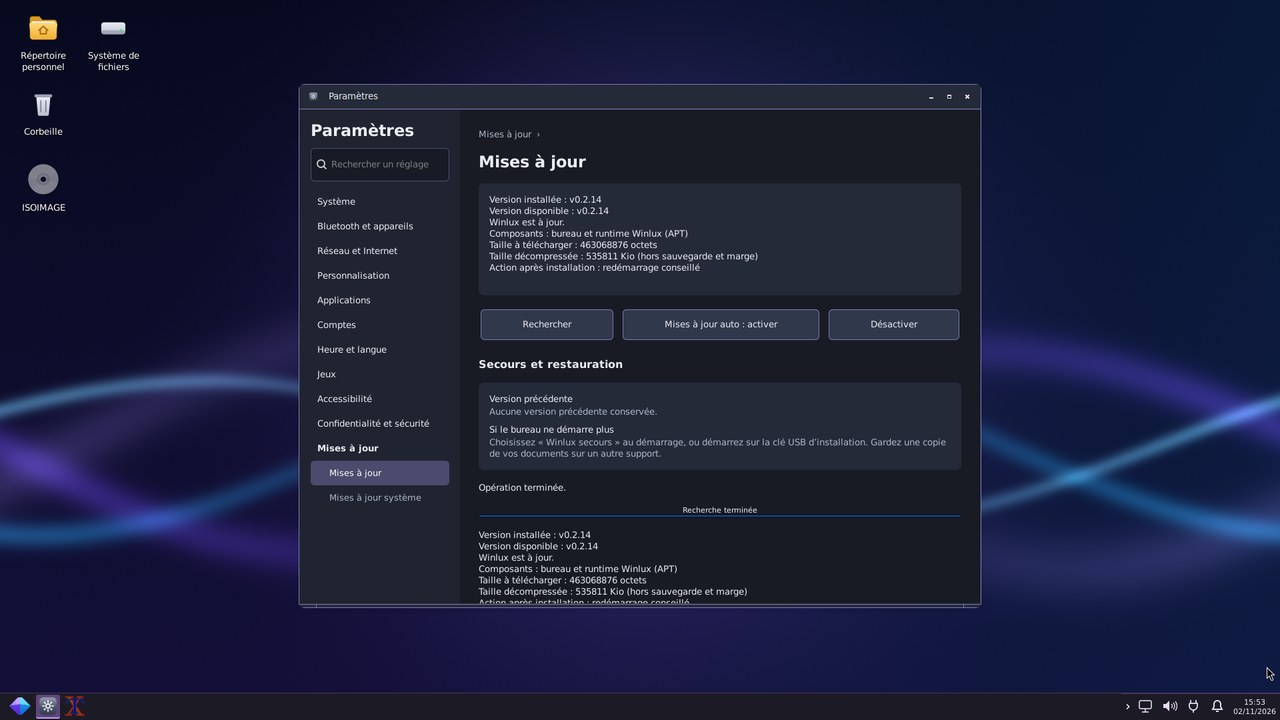
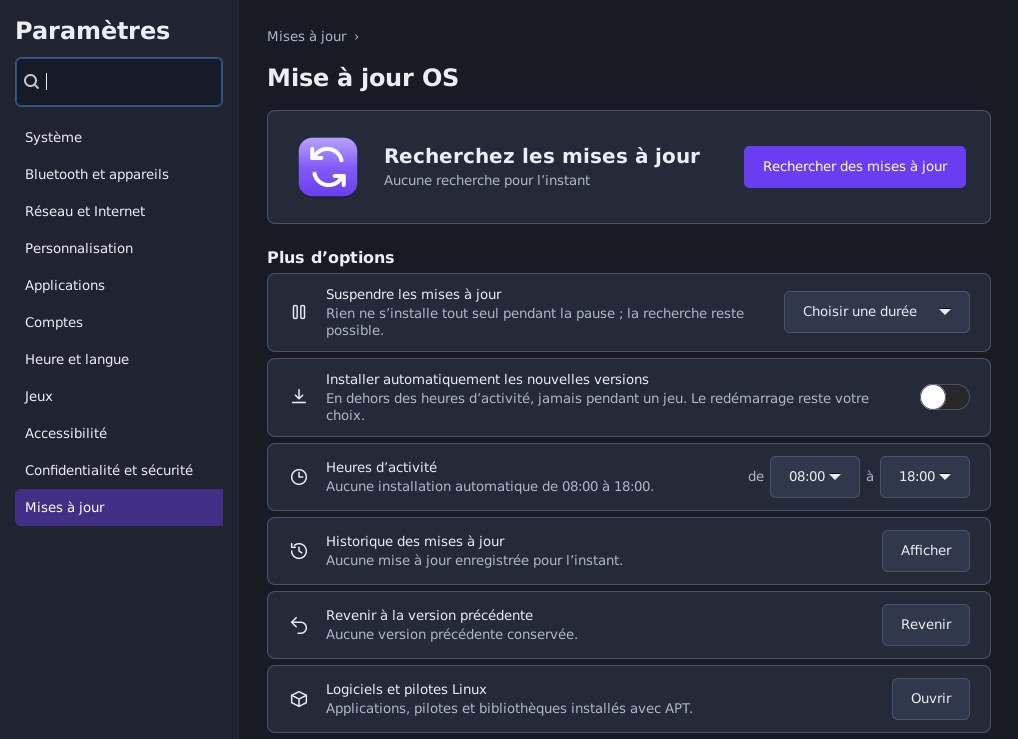
Site : capture « Mise à jour OS » actuelle et guide des mises à jour (#2864)
La capture mises-a-jour.jpg montrait la page de la v0.2.14 (« Version
installée : v0.2.14 ») et le guide citait des boutons qui n'existent plus
(« Rechercher », « Installer », « Mises à jour auto »).

- Nouvelle capture prise par scripts/capture-ui.py (parametres-07, Xvfb
  1920x1080, master affc9fb + cette branche), recadrée sur le contenu de
  la fenêtre : elle n'affiche aucun numéro de version.
- Guide, quatre langues : libellés réels de scripts/winlux-update-page.py
  (« Rechercher des mises à jour », « Télécharger et installer »,
  « Installer automatiquement les nouvelles versions », « Suspendre les
  mises à jour », « Logiciels et pilotes Linux ») et leurs traductions
  de la table _TR ; signature du manifeste contrôlée.

test-site.py --render : 288 rendus corrects.

Refs #2864

Claude-Session: https://claude.ai/code/session_015PANXGa3jYsyjbowwTyt4J

diff --git a/site/content/fr/guide-updates.md b/site/content/fr/guide-updates.md
@@ -6,17 +6,17 @@ description: Les nouvelles versions de Winlux s'installent depuis Paramètres, a
 ## Depuis Paramètres
 
 1. Ouvrez **Paramètres › Mises à jour › Mise à jour OS**.
-2. Cliquez sur **« Rechercher »**. La page indique la version installée et la version disponible.
-3. Si une version plus récente existe, cliquez sur **« Installer »** et suivez la progression.
+2. Cliquez sur **« Rechercher des mises à jour »**. Si une version plus récente existe, la page affiche « Mise à jour disponible », sa taille et ses nouveautés.
+3. Cliquez sur **« Télécharger et installer »** et suivez la progression.
 4. Redémarrez quand cela vous arrange : Winlux ne force jamais le redémarrage.
 
-![La page Mise à jour OS](img:mises-a-jour.jpg "Paramètres › Mises à jour › Mise à jour OS : version installée, version disponible, mises à jour automatiques.")
+![La page Mise à jour OS](img:mises-a-jour.jpg "Paramètres › Mises à jour › Mise à jour OS : recherche, pause, installation automatique, historique et retour à la version précédente.")
 
-Sur la même page, **« Mises à jour auto »** installe les nouvelles versions sans intervention. Les paquets du système de base se mettent à jour dans **Paramètres › Mises à jour › Mise à jour application**.
+Sur la même page, **« Installer automatiquement les nouvelles versions »** les installe sans intervention, en dehors de vos heures d'activité et jamais pendant un jeu ; **« Suspendre les mises à jour »** les met en pause. Les paquets du système de base se mettent à jour depuis la ligne **« Logiciels et pilotes Linux »** de la même page.
 
 ## Ce qui protège votre système
 
-- Chaque mise à jour est téléchargée depuis les versions publiées du projet, et sa taille et sa somme SHA-256 sont contrôlées avant l'installation.
+- Chaque mise à jour est téléchargée depuis les versions publiées du projet ; la signature de sa description, sa taille et sa somme SHA-256 sont contrôlées avant l'installation.
 - Un **point de restauration** est créé juste avant ; les trois derniers sont gardés.
 - Si le bureau ne démarre plus correctement après une mise à jour, Winlux **revient tout seul** à la version précédente.
 - Vos documents, vos programmes installés et vos réglages sont conservés.

diff --git a/site/content/es/guide-updates.md b/site/content/es/guide-updates.md
@@ -6,17 +6,17 @@ description: Las nuevas versiones de Winlux se instalan desde Configuración, co
 ## Desde Configuración
 
 1. Abra **Configuración › Actualizaciones › Actualización del SO**.
-2. Pulse **«Buscar»**. La página indica la versión instalada y la versión disponible.
-3. Si existe una versión más reciente, pulse **«Instalar»** y siga el progreso.
+2. Pulse **«Buscar actualizaciones»**. Si existe una versión más reciente, la página muestra «Actualización disponible», su tamaño y sus novedades.
+3. Pulse **«Descargar e instalar»** y siga el progreso.
 4. Reinicie cuando le venga bien: Winlux nunca fuerza el reinicio.
 
-![La página Actualización del SO](img:mises-a-jour.jpg "Configuración › Actualizaciones › Actualización del SO: versión instalada, versión disponible, actualizaciones automáticas.")
+![La página Actualización del SO](img:mises-a-jour.jpg "Configuración › Actualizaciones › Actualización del SO: búsqueda, pausa, instalación automática, historial y vuelta a la versión anterior.")
 
-En la misma página, **«Actualizaciones automáticas»** instala las nuevas versiones sin que tenga que intervenir. Los paquetes del sistema base se actualizan en **Configuración › Actualizaciones › Actualización de aplicaciones**.
+En la misma página, **«Instalar automáticamente las nuevas versiones»** las instala sin que tenga que intervenir, fuera de sus horas activas y nunca durante un juego; **«Pausar actualizaciones»** las pone en pausa. Los paquetes del sistema base se actualizan desde la fila **«Software y controladores de Linux»** de la misma página.
 
 ## Lo que protege su sistema
 
-- Cada actualización se descarga de las versiones publicadas del proyecto, y su tamaño y su suma SHA-256 se comprueban antes de instalarla.
+- Cada actualización se descarga de las versiones publicadas del proyecto, y la firma de su descripción, su tamaño y su suma SHA-256 se comprueban antes de instalarla.
 - Justo antes se crea un **punto de restauración**; se conservan los tres últimos.
 - Si el escritorio deja de arrancar bien tras una actualización, Winlux **vuelve por sí solo** a la versión anterior.
 - Sus documentos, sus programas instalados y sus ajustes se conservan.

diff --git a/site/content/de/guide-updates.md b/site/content/de/guide-updates.md
@@ -6,17 +6,17 @@ description: Neue Winlux-Versionen werden aus den Einstellungen installiert, mit
 ## Aus den Einstellungen
 
 1. Öffnen Sie **Einstellungen › Updates › OS-Update**.
-2. Klicken Sie auf **„Suchen“**. Die Seite zeigt die installierte und die verfügbare Version.
-3. Gibt es eine neuere Version, klicken Sie auf **„Installieren“** und verfolgen Sie den Fortschritt.
+2. Klicken Sie auf **„Nach Updates suchen“**. Gibt es eine neuere Version, zeigt die Seite „Update verfügbar“, ihre Größe und ihre Neuerungen.
+3. Klicken Sie auf **„Herunterladen und installieren“** und verfolgen Sie den Fortschritt.
 4. Starten Sie neu, wann es Ihnen passt: Winlux erzwingt nie einen Neustart.
 
-![Die Seite OS-Update](img:mises-a-jour.jpg "Einstellungen › Updates › OS-Update: installierte Version, verfügbare Version, automatische Updates.")
+![Die Seite OS-Update](img:mises-a-jour.jpg "Einstellungen › Updates › OS-Update: Suche, Pause, automatische Installation, Verlauf und Rückkehr zur vorherigen Version.")
 
-Auf derselben Seite installiert **„Automatische Updates“** neue Versionen ohne Ihr Zutun. Die Pakete des Basissystems werden unter **Einstellungen › Updates › Anwendungsupdate** aktualisiert.
+Auf derselben Seite installiert **„Neue Versionen automatisch installieren“** sie ohne Ihr Zutun, außerhalb Ihrer Nutzungszeit und nie während eines Spiels; **„Updates anhalten“** pausiert sie. Die Pakete des Basissystems werden über die Zeile **„Linux-Software und -Treiber“** derselben Seite aktualisiert.
 
 ## Was Ihr System schützt
 
-- Jedes Update wird von den veröffentlichten Versionen des Projekts heruntergeladen; Größe und SHA-256-Prüfsumme werden vor der Installation geprüft.
+- Jedes Update wird von den veröffentlichten Versionen des Projekts heruntergeladen; die Signatur seiner Beschreibung, Größe und SHA-256-Prüfsumme werden vor der Installation geprüft.
 - Unmittelbar davor wird ein **Wiederherstellungspunkt** angelegt; die letzten drei bleiben erhalten.
 - Startet der Desktop nach einem Update nicht mehr richtig, **kehrt Winlux von selbst** zur vorherigen Version zurück.
 - Ihre Dokumente, installierten Programme und Einstellungen bleiben erhalten.

diff --git a/site/content/en/guide-updates.md b/site/content/en/guide-updates.md
@@ -6,17 +6,17 @@ description: New versions of Winlux install from Settings, with a restore point 
 ## From Settings
 
 1. Open **Settings › Updates › OS update**.
-2. Click **“Check”**. The page shows the installed version and the available version.
-3. If a newer version exists, click **“Install”** and follow the progress.
+2. Click **“Check for updates”**. If a newer version exists, the page shows “Update available”, its size and what's new.
+3. Click **“Download and install”** and follow the progress.
 4. Restart when it suits you: Winlux never forces a restart.
 
-![The OS update page](img:mises-a-jour.jpg "Settings › Updates › OS update: installed version, available version, automatic updates.")
+![The OS update page](img:mises-a-jour.jpg "Settings › Updates › OS update: check, pause, automatic installation, history and going back to the previous version.")
 
-On the same page, **“Automatic updates”** installs new versions without any action from you. The base system packages are updated in **Settings › Updates › Application update**.
+On the same page, **“Install new versions automatically”** installs them without any action from you, outside your active hours and never during a game; **“Pause updates”** pauses them. The base system packages are updated from the **“Linux software and drivers”** row on the same page.
 
 ## What protects your system
 
-- Each update is downloaded from the project's published releases, and its size and SHA-256 checksum are checked before installation.
+- Each update is downloaded from the project's published releases, and the signature of its description, its size and its SHA-256 checksum are checked before installation.
 - A **restore point** is created just before; the last three are kept.
 - If the desktop no longer starts properly after an update, Winlux **rolls back by itself** to the previous version.
 - Your documents, installed programs and settings are kept.
